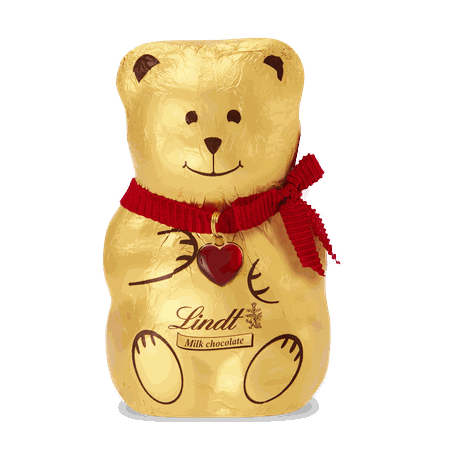
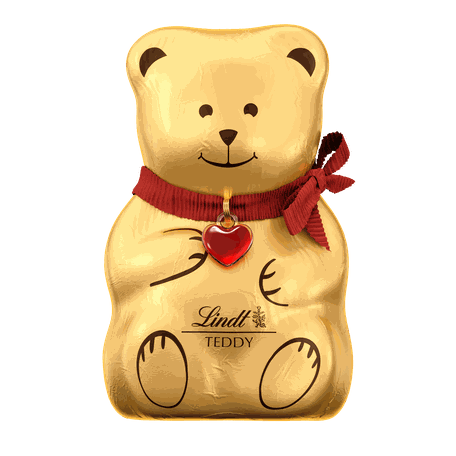
Czeska: packshot od klientki, kod prezentu TEDDYCZ, link MyLindt
PACKSHOT: zastapiony plikiem od klientki
„Metashot_Lindt_TEDDY_Gold Teddy_100g_Milk_...Digital-Twin-PNG Max Res.png"
(3500x3500 RGBA) zamiast znalezionego przeze mnie na lindt.cz. Oficjalny
render, na opakowaniu „Lindt TEDDY" zamiast „Milk chocolate". 5,87 MB ->
32,8 KB (456x456, paleta 220), strata 0,11 % pikseli. Plotno zostaje
kwadratowe 1:1, wiec layout bez zmian (tresc sama ma 1:1,57 i kadrowanie
by go rozwalilo).

KOD PREZENTU: LINDTCZGIFT -> TEDDYCZ, wg tabeli klientki. Dwa pozostale
juz sie zgadzaly: LINDTSHIP i LINDT10.

LINK DO OFERT: wraca na lindt.cz/obchod/akce/mylindt-nabidky. Klientka:
„for CZ you can keep this link, due to Black Friday this offer is disabled
but will be enabled in December." Pustka na stronie jest stanem przejsciowym,
nie blednym adresem.

ZMIERZONE: trzy progi nagrody x cztery wysokosci (844/660/620/560) — nic
poza ekranem, najciasniej 360x560 zapas 43 px gora i 58 px dol.

UWAGA NIEROZSTRZYGNIETA: tabela klientki opisuje nagrode jako „Teddy 100g
for 1 Kc over 1 190 Kc", a gra mowi „Darek zdarma", czyli ZA DARMO.
Warunek 1 190 Kc sie zgadza, ale samo slowo „zdarma" przy cenie 1 Kc jest
nieprawdziwe. Tekst NIE zmieniony — czeka na decyzje.

diff --git a/cz.html b/cz.html
@@ -1024,7 +1024,10 @@ const TAP_GATE = true   // FR: ekran „Cliquez pour démarrer" + muzyka od ekra
 const TIERS = location.pathname.indexOf('gift') < 0
 
 const LIEN_BOUTIQUE = 'https://www.lindt.cz/obchod/sezona/vanoce'          // ścieżka z nagrodą
-const LIEN_OFFRES   = 'https://www.lindt.cz/obchod/akce'                   // drugie zero -> ogolne akcje („Akce na čokolády")
+// Klientka (2026-11-27): „for CZ you can keep this link, due to Black Friday this offer
+// is disabled but will be enabled in December." Strona jest dzis PUSTA („Nelze najit
+// produkty odpovidajici vyberu") — to stan przejsciowy, nie blad adresu.
+const LIEN_OFFRES   = 'https://www.lindt.cz/obchod/akce/mylindt-nabidky'   // drugie zero -> oferty MyLindt
 
 // Jedna szansa po zerze liczona W RAMACH SESJI. Przeładowanie strony ją zeruje —
 // blokada na stałe wymagałaby zapisu w przeglądarce, co odcięłoby telefon od gry na zawsze.
@@ -1707,9 +1710,9 @@ function showResult() {
     // „Kód slevy" jest prawda TYLKO przy znizce; przy dostawie i prezencie to nie rabat.
     kodLbl.textContent = poziom === 'pct' ? 'Kód slevy' : 'Tvůj kód'
     document.getElementById('result-code').textContent =
-      // Kody dokladnie tak, jak klientka wpisala w arkuszu (2026-11-27): dwa bez „CZ",
-      // prezentowy z „CZ". Celowo NIE ujednolicane.
-      poziom === 'gift' ? 'LINDTCZGIFT' : poziom === 'pct' ? 'LINDT10' : 'LINDTSHIP'
+      // Kody z tabeli klientki (2026-11-27, kolumna CEE). PL ma wlasne: LINDTSHIPPING,
+      // LINDT-10, TEDDYGROSZ. Dla CZ/SK/HU prezentowy rozni sie koncowka kraju.
+      poziom === 'gift' ? 'TEDDYCZ' : poziom === 'pct' ? 'LINDT10' : 'LINDTSHIP'
 
     note.innerHTML = 'Platí pouze online na lindt.cz do 31. 12. 2026.'
     rs.classList.add(poziom === 'gift' ? 'gift' : 'pct')
